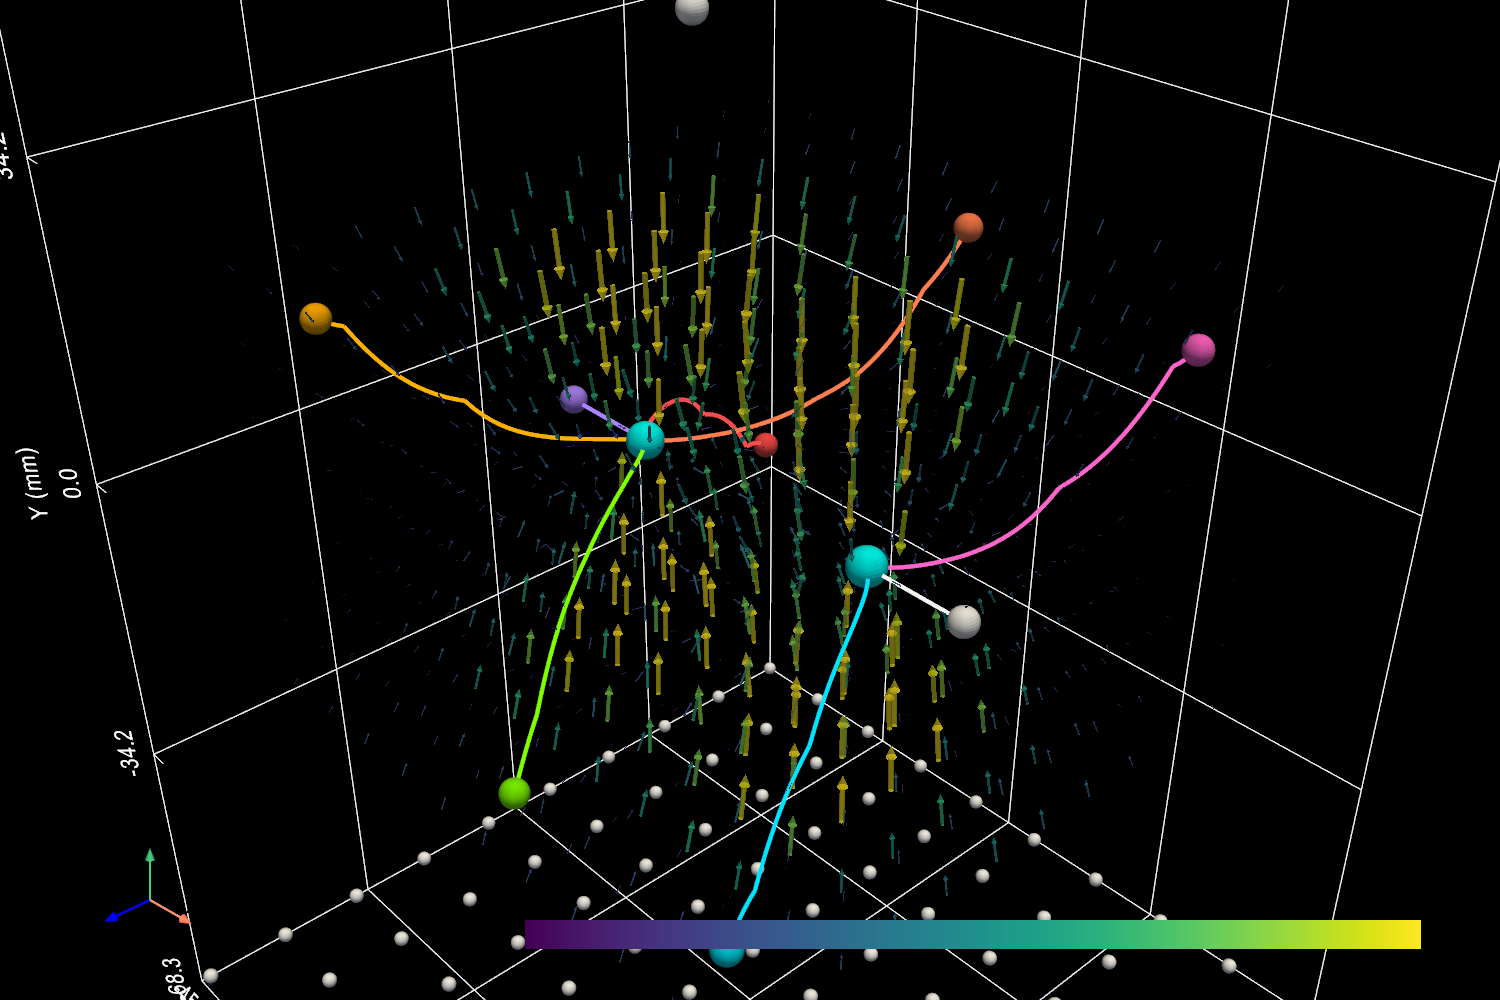
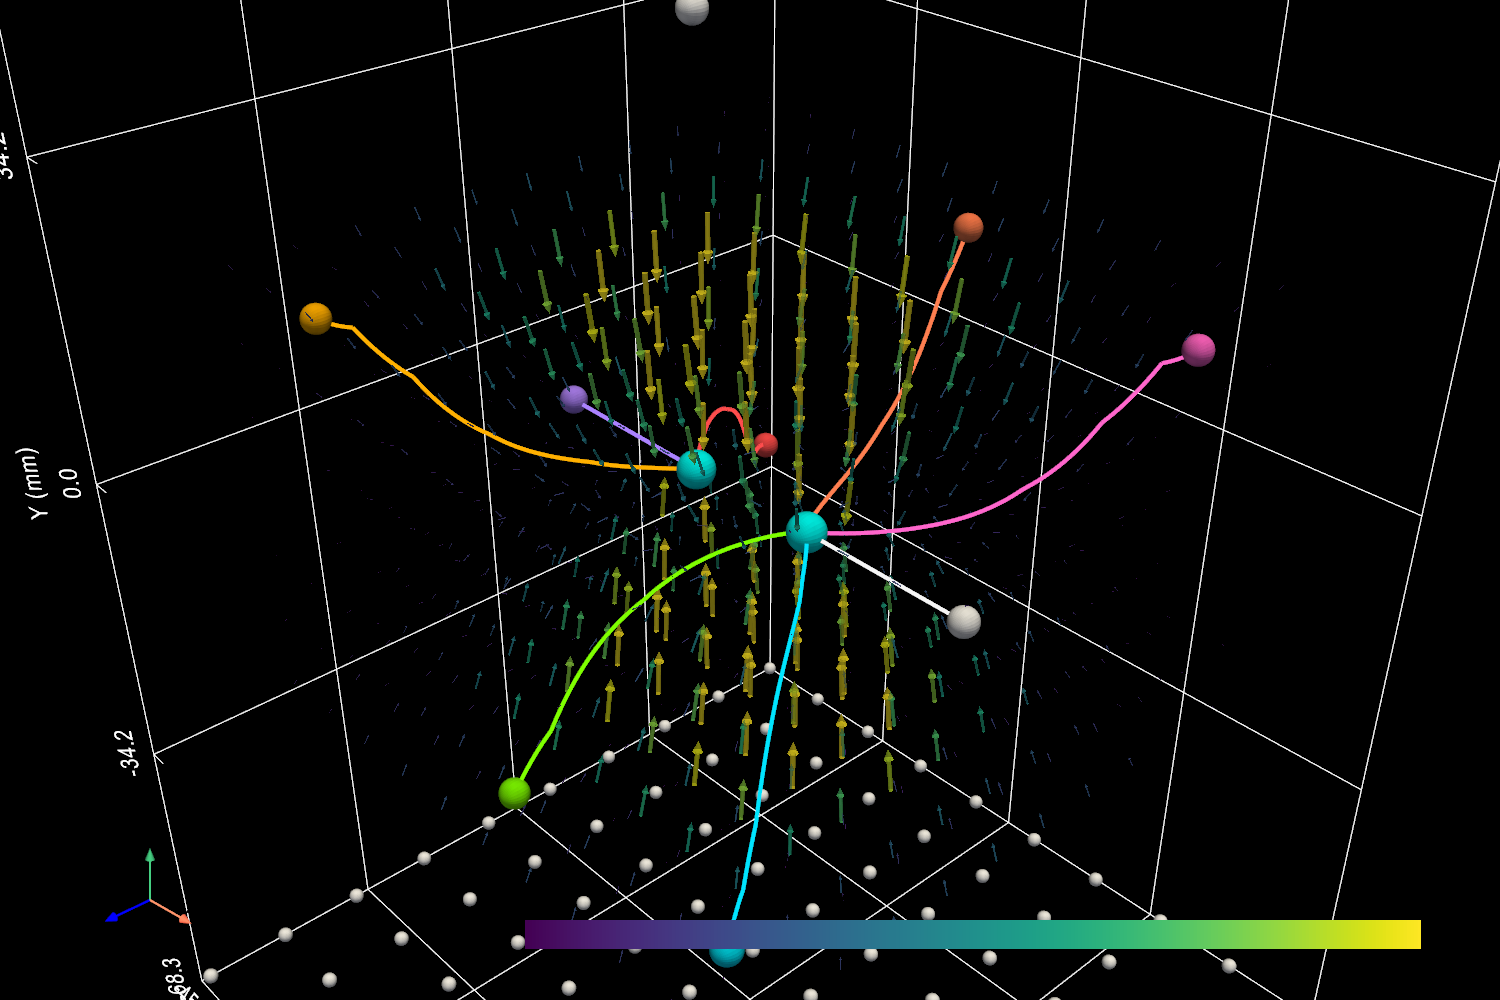
k

diff --git a/cli/Vector/vector_optimizer.py b/cli/Vector/vector_optimizer.py
@@ -166,7 +166,7 @@ def target_set(case: str, path_samples: int = 96) -> np.ndarray:
     if case == "point":
         return np.array([[0.0, 0.0, 0.0]])
     if case == "two-points":
-        return np.array([[-16.0, 0.0, 0.0], [16.0, 0.0, 0.0]])
+        return np.array([[8.0, 0.0, 0.0], [-8.0, 0.0, 0.0]])
     if case == "circle":
         theta = np.linspace(0.0, 2.0 * np.pi, path_samples, endpoint=False)
         return np.column_stack((18.0 * np.cos(theta), np.zeros_like(theta), 18.0 * np.sin(theta)))

diff --git a/cli/Vector/laptop_phase_sender_vector.c b/cli/Vector/laptop_phase_sender_vector.c
@@ -221,7 +221,7 @@ static void manual_dwell_weights(double weight[3])
 static Vec3 manual_home(int count, int particle)
 {
     if(count == 1) return (Vec3){0.0, 0.0, 0.0};
-    return (Vec3){particle == 0 ? -16.0 : 16.0, 0.0, 0.0};
+    return (Vec3){particle == 0 ? 8.0 : -8.0, 0.0, 0.0};
 }
 
 static void init_manual_state(TrackingState *state, int count)

diff --git a/cli/Vector/METHODS_AND_SOURCES.md b/cli/Vector/METHODS_AND_SOURCES.md
@@ -112,6 +112,6 @@ Direct source links:
 - A continuously rotated binary aperture split improved the mean to about 0.80 but introduced four fully reversed symmetry-corner voxels, so it was rejected.
 - The accepted tri-axial ensemble averages independent X/Y/Z twin traps. A fixed `4:1:4` dwell at 0.75 mm look-ahead achieved mean cosine 0.924 and minimum 0.823 but reduced the conditional median force to 17.3 uN.
 - Direction-adaptive dwell `[6|d_x|+1, |d_y|+1, 6|d_z|+1]` at 1.0 mm retained mean cosine 0.923 and minimum 0.809 while increasing the conditional median to 26.3 uN and the 10th percentile to 9.3 uN in the point sweep. Every point remained above cosine 0.8.
-- Revalidated the final quantized policy: one-point mean/minimum cosine 0.923/0.809 and two-point 0.921/0.803; both had inward fraction 1.000, every voxel above cosine 0.8, and 8/8 quasi-static captures. Conditional median force/weight margins were 7.59 and 9.11.
+- Revalidated the final quantized policy: one-point mean/minimum cosine 0.923/0.809 and the final +/-8 mm two-point geometry 0.925/0.797. Both had inward fraction 1.000 and 8/8 quasi-static captures; 99.5% of two-point voxels exceeded cosine 0.8. Conditional median force/weight margins were 7.59 and 8.11.
 - Added `laptop_phase_sender_vector.c`, a standard-C implementation with only one- and two-particle modes, safe coordinate/range checks, CRC-checked protocol frames, adaptive tri-axial dwell, unique two-goal assignment, state-file tracking input, periodic logs, and a network-free self-test.
 - Revised the sender interface so keyboard movement requires no state file and the Pi port is the explicit `--port` option. `--state FILE` now clearly selects camera-tracked closed-loop routing. Local mock-Pi tests accepted valid CRC/range-checked packets for one-particle manual mode, one-particle tracked mode, and all six frames of two-particle tracked mode.
